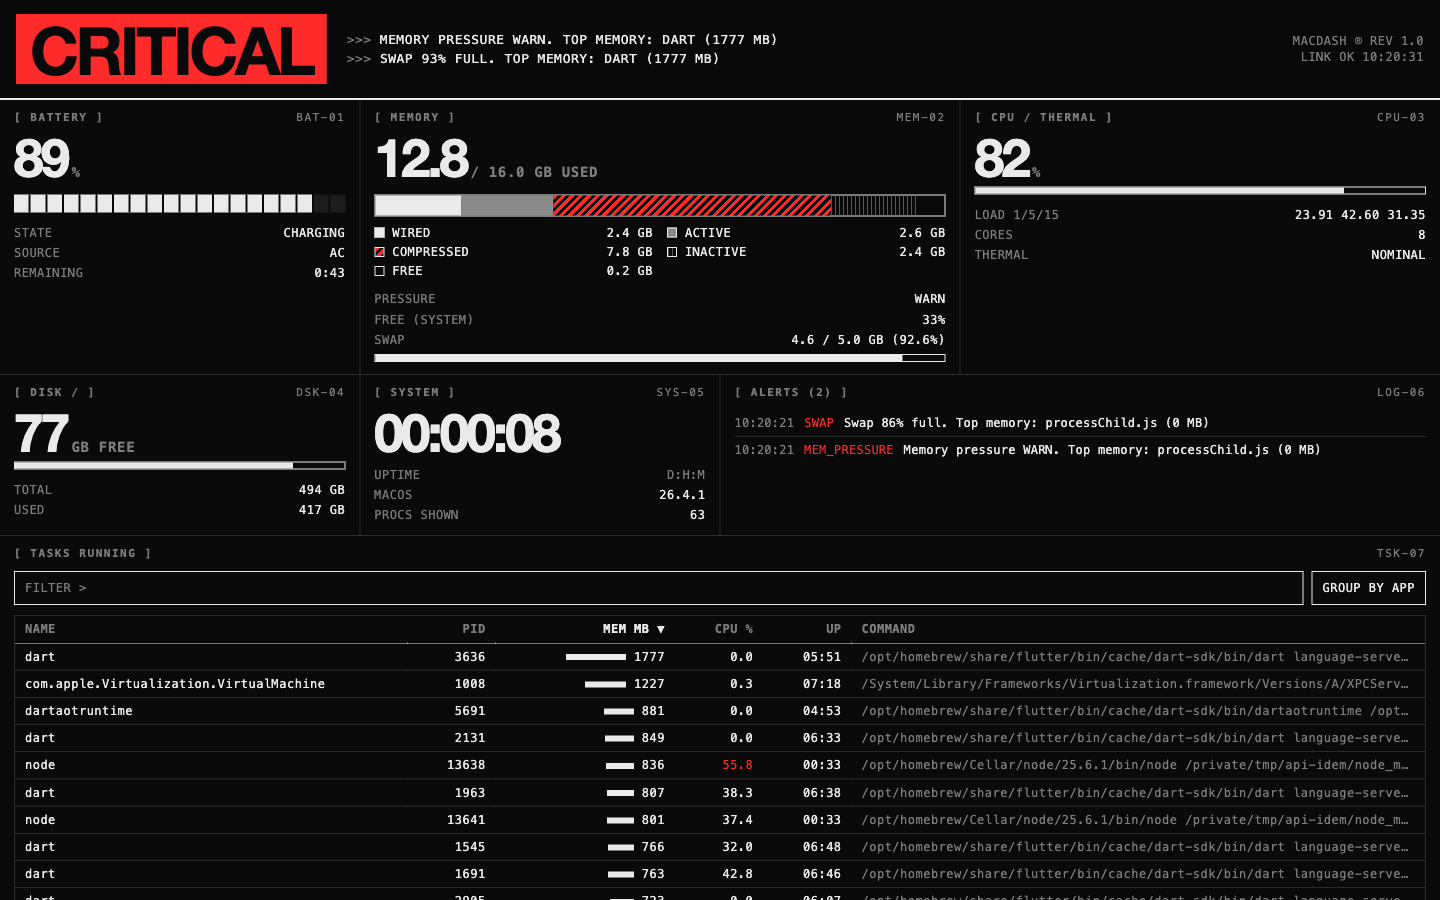
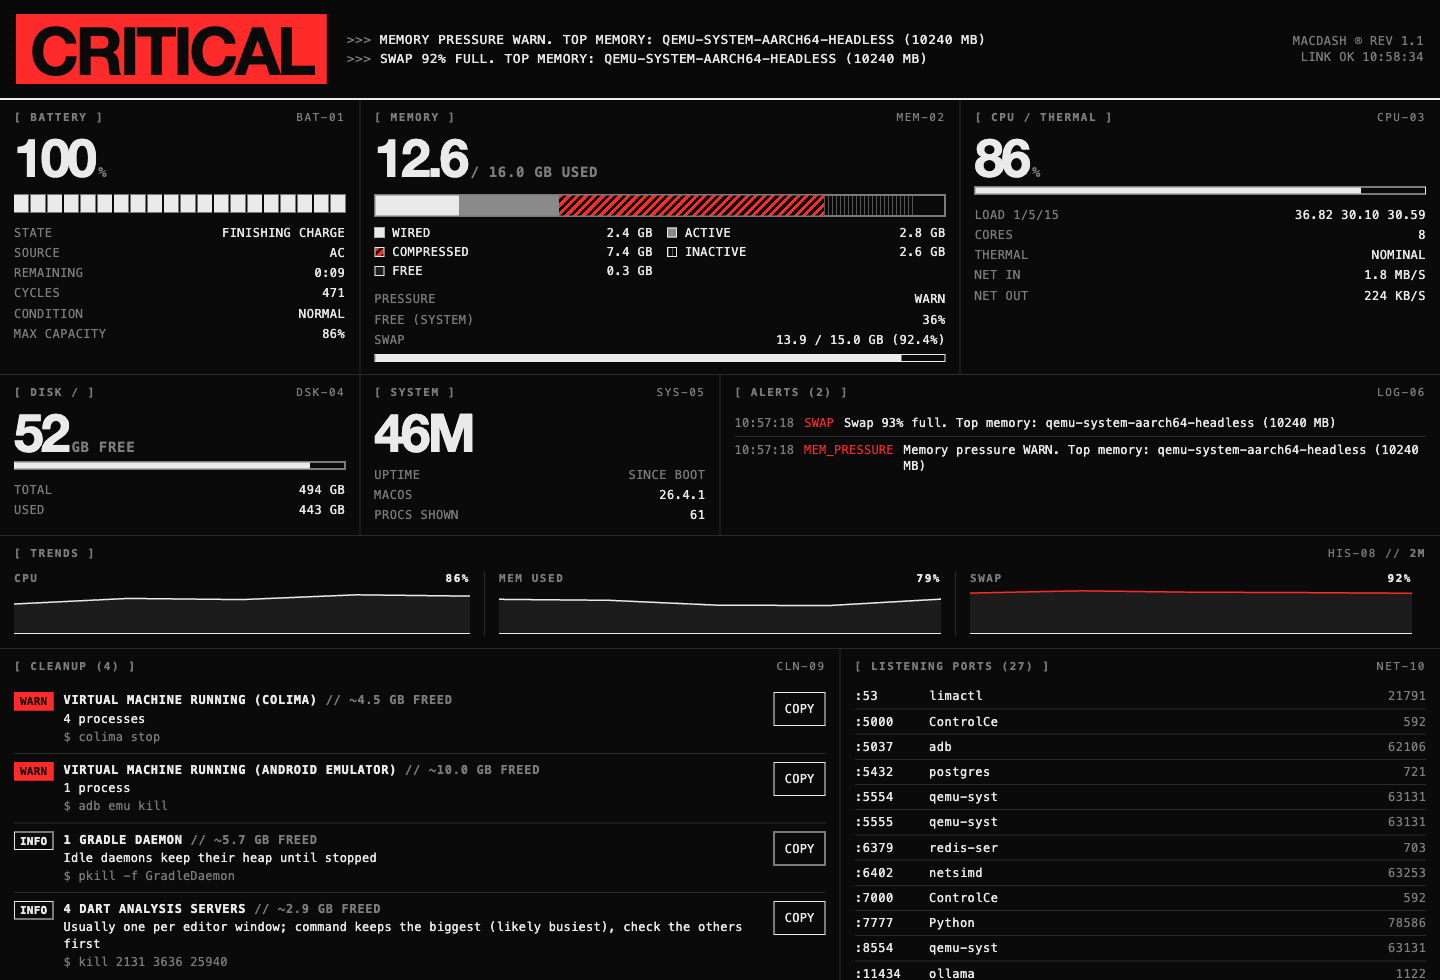
macdash: readable uptime, README panel table matches UI, v1.1 screenshot
Claude-Session: https://claude.ai/code/session_01KdTh91kXDEmUgavm5E8bbZ

Changed region(s): [[0.0, 0.0, 1.0, 1.0], [0.9062, 0.0311, 1.0, 0.0622]]

diff --git a/index.html b/index.html
@@ -144,7 +144,7 @@ footer{padding:10px 16px;color:var(--dim);display:flex;justify-content:space-bet
   </section>
   <section id="b-sys"><h2><span>SYS-05</span>SYSTEM</h2>
     <div class="big num" id="up">--</div>
-    <dl class="kv"><dt>UPTIME</dt><dd class="dim">D:H:M</dd><dt>MACOS</dt><dd id="os" class="num">--</dd><dt>PROCS SHOWN</dt><dd id="pn" class="num">--</dd></dl>
+    <dl class="kv"><dt>UPTIME</dt><dd class="dim">SINCE BOOT</dd><dt>MACOS</dt><dd id="os" class="num">--</dd><dt>PROCS SHOWN</dt><dd id="pn" class="num">--</dd></dl>
   </section>
   <section id="b-alerts"><h2><span>LOG-06</span>ALERTS <b id="acount" class="num"></b></h2>
     <div id="alerts"></div>
@@ -202,7 +202,7 @@ function render(s){
   $("dfree").innerHTML=dg(d.free)+"<small>GB FREE</small>";$("dtot").textContent=dg(d.total)+" GB";$("dused").textContent=dg(d.total-d.free)+" GB";
   $("dbar").style.width=(100*(d.total-d.free)/d.total)+"%";
   if(s.uptime!=null){const u=s.uptime,dd=Math.floor(u/86400),h=Math.floor(u%86400/3600),mi=Math.floor(u%3600/60);
-    $("up").textContent=[dd,h,mi].map(x=>String(x).padStart(2,"0")).join(":")}
+    $("up").textContent=(dd?dd+"D ":"")+(dd||h?h+"H ":"")+mi+"M"}
   const n=s.net||{in_bps:0,out_bps:0};$("nin").textContent=rate(n.in_bps);$("nout").textContent=rate(n.out_bps);
   const h=b.present&&b.health;document.querySelectorAll(".bh").forEach(e=>e.hidden=!h);
   if(h){$("bcyc").textContent=h.cycle_count??"--";$("bcond").textContent=h.condition??"--";$("bcap").textContent=h.max_capacity_pct==null?"--":h.max_capacity_pct+"%"}

diff --git a/README.md b/README.md
@@ -40,11 +40,11 @@ Then just ask: *"why is my Mac lagging?"*, *"what's eating my RAM?"*, or *"what'
 | Memory | Wired / active / compressed / inactive / free, memory pressure, swap |
 | CPU / thermal | Overall %, load averages, cores, thermal state (nominal → critical) |
 | Disk / system | Free space, uptime, macOS version |
-| Battery health | Cycle count, condition, maximum capacity (API) |
-| Network | Live in/out bytes per second (API) |
-| Listening ports | Every TCP listener with its pid and command (API) |
-| Cleanup suggestions | Stale dev servers, booted simulators, VMs, Gradle daemons, hung `flutter_tester`/`git`, duplicate Dart analysis servers, memory leaks, each with a command to review and run yourself (API) |
-| History | Last 720 samples (about 2h while viewed, longer idle) of CPU, memory, swap, pressure, battery and network samples (API) |
+| Battery health | Cycle count, condition, maximum capacity |
+| Network | Live in/out bytes per second |
+| Listening ports | Every TCP listener with its pid and command |
+| Cleanup suggestions | Stale dev servers, booted simulators, VMs, Gradle daemons, hung `flutter_tester`/`git`, duplicate Dart analysis servers, memory leaks, each with a command to review and run yourself (with a COPY button; macdash never runs them) |
+| History | Last 720 samples (about 2h while viewed, longer idle) of CPU, memory, swap, pressure, battery and network samples |
 | Alerts | The last 50 alerts |
 | Tasks running | Sortable, filterable process table (memory, CPU, uptime, full command) with a group-by-app toggle |
 
